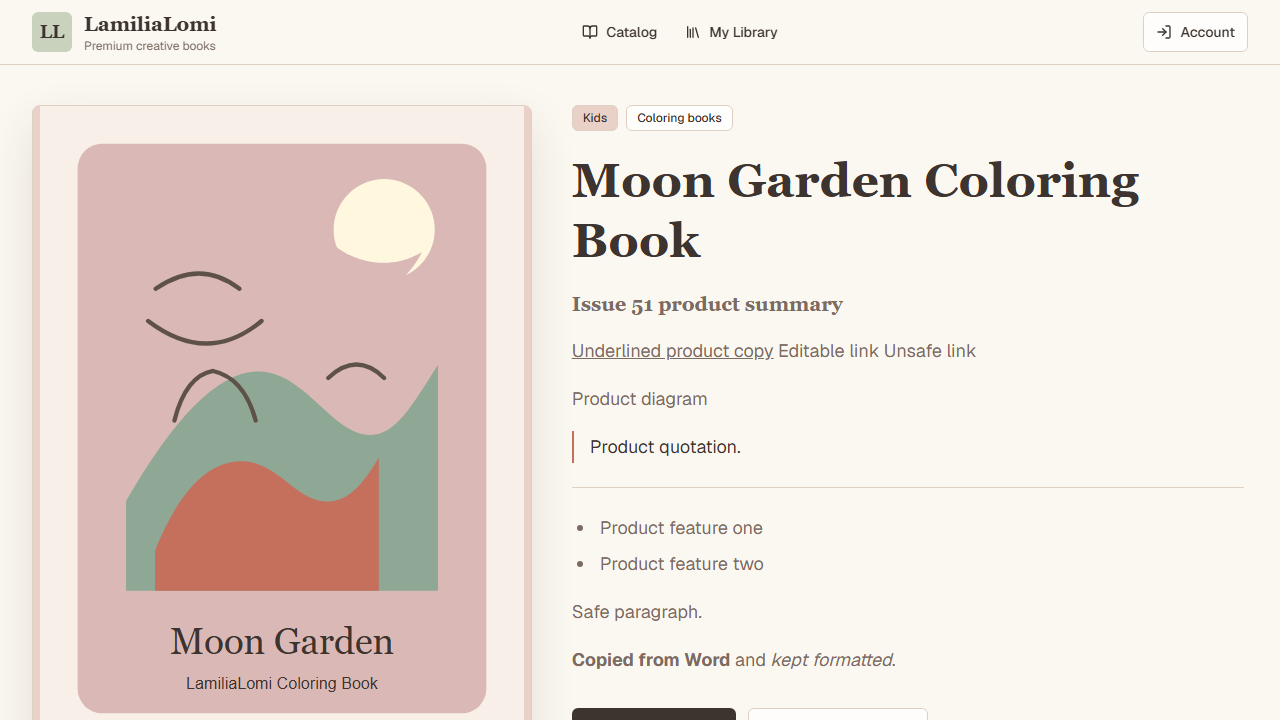
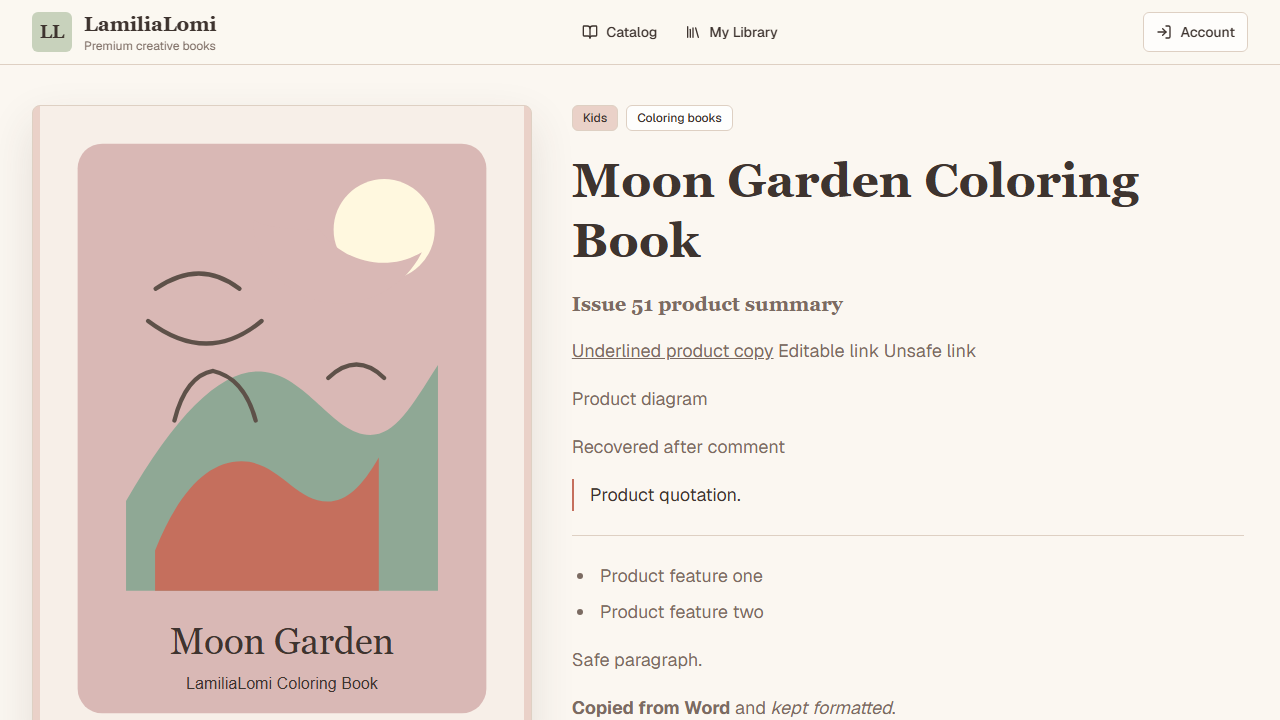
Fix Rich Text V2 conversion and storage compatibility

Changed region(s): [[0.4375, 0.6722, 0.6875, 0.9472], [0.4375, 0.9778, 0.7188, 1.0], [0.4375, 0.6111, 0.625, 0.6417]]

diff --git a/src/lib/rich-text-html.ts b/src/lib/rich-text-html.ts
@@ -61,16 +61,16 @@ export function importRichTextHtml(source: string): RichTextHtmlImport {
   };
 
   if (source.length > MAX_HTML_SOURCE_LENGTH) {
-    addWarning("invalid-markup", "HTML source is over 100,000 characters and cannot be converted.");
+    addWarning("invalid-markup", "Źródło HTML przekracza limit 100 000 znaków i nie można go przekonwertować.");
     return { document: { type: "doc", content: [] }, warnings: [...warningMap.values()], canConvert: false };
   }
 
   if (hasMalformedTagStructure(source)) {
-    addWarning("invalid-markup", "Some HTML tags are missing or out of order. Review the source before converting it.");
+    addWarning("invalid-markup", "Niektóre znaczniki HTML są brakujące lub w niewłaściwej kolejności. Sprawdź źródło przed konwersją.");
   }
 
   if (typeof DOMParser === "undefined") {
-    addWarning("invalid-markup", "HTML parsing is unavailable in this environment. The source has been kept unchanged.");
+    addWarning("invalid-markup", "Konwersja HTML jest niedostępna w tym środowisku. Źródło pozostaje bez zmian.");
     return { document: { type: "doc", content: [] }, warnings: [...warningMap.values()], canConvert: false };
   }
 
@@ -79,18 +79,28 @@ export function importRichTextHtml(source: string): RichTextHtmlImport {
     (tag, attribute) => {
       addWarning(
         "unsupported-attribute",
-        "The " + attribute + " attribute on <" + tag + "> will be removed.",
+        "Atrybut „" + attribute + "” w elemencie <" + tag + "> zostanie usunięty.",
       );
     },
-    () => addWarning("unsupported-element", "Style block content will be removed during conversion."),
+    () => addWarning("unsupported-element", "Treść bloku <style> zostanie usunięta podczas konwersji."),
+    () => addWarning("invalid-markup", "Nie można odczytać końca komentarza HTML. Dalsza część źródła nie zostanie przekonwertowana."),
   );
   const parsed = new DOMParser().parseFromString(parserSafeSource, "text/html");
   if (parsed.querySelector("parsererror")) {
-    addWarning("invalid-markup", "The HTML source could not be parsed. Review it before converting.");
+    addWarning("invalid-markup", "Nie udało się odczytać źródła HTML. Sprawdź je przed konwersją.");
+  }
+
+  const hasUnsupportedHeadContent = Array.from(parsed.head.childNodes).some((node) => {
+    if (node.nodeType === Node.COMMENT_NODE) return true;
+    if (node.nodeType === Node.TEXT_NODE) return Boolean((node.nodeValue ?? "").trim());
+    return node instanceof Element && node.tagName.toLowerCase() !== "style";
+  });
+  if (hasUnsupportedHeadContent) {
+    addWarning("unsupported-element", "Zawartość sekcji <head> nie jest obsługiwana i zostanie usunięta podczas konwersji.");
   }
 
   if (!isWithinHtmlLimits(parsed.body)) {
-    addWarning("invalid-markup", "The HTML source is too deeply nested or contains too many elements to convert safely.");
+    addWarning("invalid-markup", "Źródło HTML jest zbyt głęboko zagnieżdżone lub zawiera zbyt wiele elementów do bezpiecznej konwersji.");
     return { document: { type: "doc", content: [] }, warnings: [...warningMap.values()], canConvert: false };
   }
 
@@ -103,7 +113,7 @@ export function importRichTextHtml(source: string): RichTextHtmlImport {
       if (!allowed.has(attribute.name.toLowerCase())) {
         addWarning(
           "unsupported-attribute",
-          "The " + attribute.name.toLowerCase() + " attribute on <" + element.tagName.toLowerCase() + "> will be removed.",
+          "Atrybut „" + attribute.name.toLowerCase() + "” w elemencie <" + element.tagName.toLowerCase() + "> zostanie usunięty.",
         );
       }
     }
@@ -114,7 +124,7 @@ export function importRichTextHtml(source: string): RichTextHtmlImport {
     const allowedAttributes = tag === "a" ? new Set(["href"]) : new Set<string>();
     inspectAttributes(element, allowedAttributes);
     if (!INLINE_TAGS.has(tag) && !BLOCK_TAGS.has(tag) && !(isListItem && tag === "li")) {
-      addWarning("unsupported-element", "The <" + tag + "> element is not supported and will be simplified.");
+      addWarning("unsupported-element", "Element <" + tag + "> nie jest obsługiwany i zostanie uproszczony.");
     }
   };
 
@@ -128,7 +138,7 @@ export function importRichTextHtml(source: string): RichTextHtmlImport {
       }
 
       if (node.nodeType === Node.COMMENT_NODE) {
-        addWarning("unsupported-element", "HTML comments are not supported and will be removed.");
+        addWarning("unsupported-element", "Komentarze HTML nie są obsługiwane i zostaną usunięte.");
         continue;
       }
 
@@ -152,8 +162,8 @@ export function importRichTextHtml(source: string): RichTextHtmlImport {
         const rawHref = element.getAttribute("href");
         const safeHref = rawHref === null ? null : sanitizeRichTextHref(rawHref);
         if (safeHref) marks = addMark(inheritedMarks, { type: "link", attrs: { href: safeHref } });
-        else if (rawHref !== null) addWarning("unsafe-link", "An unsafe or invalid link address will be removed.");
-        else addWarning("unsafe-link", "A link without an href will be converted to plain text.");
+        else if (rawHref !== null) addWarning("unsafe-link", "Niebezpieczny lub nieprawidłowy adres linku zostanie usunięty.");
+        else addWarning("unsafe-link", "Link bez atrybutu href zostanie zamieniony na zwykły tekst.");
       }
 
       if (["img"].includes(tag)) {
@@ -195,7 +205,7 @@ export function importRichTextHtml(source: string): RichTextHtmlImport {
       }
 
       if (node.nodeType === Node.COMMENT_NODE) {
-        addWarning("unsupported-element", "HTML comments are not supported and will be removed.");
+        addWarning("unsupported-element", "Komentarze HTML nie są obsługiwane i zostaną usunięte.");
         continue;
       }
 
@@ -226,7 +236,7 @@ export function importRichTextHtml(source: string): RichTextHtmlImport {
           } else if (child.nodeType === Node.TEXT_NODE && !(child.nodeValue ?? "").trim()) {
             continue;
           } else {
-            addWarning("unsupported-element", "Content outside a <li> element in a list will be moved into a list item.");
+            addWarning("unsupported-element", "Treść poza elementem <li> zostanie przeniesiona do nowego elementu listy.");
             const itemContent = child instanceof Element
               ? blocksFromNodes([child])
               : [{ type: "paragraph", content: inlineFromNodes([child]) }];
@@ -260,7 +270,7 @@ export function importRichTextHtml(source: string): RichTextHtmlImport {
   const imported = blocksFromNodes(parsed.body.childNodes);
   const document = sanitizeRichTextDocument({ type: "doc", content: imported }) ?? { type: "doc", content: [] };
   if (JSON.stringify(imported) !== JSON.stringify(document.content)) {
-    addWarning("unsupported-element", "Some nested content cannot be represented and will be removed during conversion.");
+    addWarning("unsupported-element", "Niektórych zagnieżdżonych elementów nie można zachować i zostaną usunięte podczas konwersji.");
   }
   return { document, warnings: [...warningMap.values()], canConvert: true };
 }
@@ -269,6 +279,7 @@ function removeFetchableAttributes(
   source: string,
   onRemovedAttribute: (tag: string, attribute: string) => void,
   onRemovedStyleContent: () => void,
+  onMalformedComment: () => void,
 ): string {
   const lowerSource = source.toLowerCase();
   let result = "";
@@ -283,10 +294,14 @@ function removeFetchableAttributes(
 
     result += source.slice(cursor, tagStart);
     if (source.startsWith("<!--", tagStart)) {
-      const commentEnd = source.indexOf("-->", tagStart + 4);
-      const end = commentEnd < 0 ? source.length : commentEnd + 3;
-      result += source.slice(tagStart, end);
-      cursor = end;
+      const commentEnd = findHtmlCommentEnd(source, tagStart);
+      if (commentEnd < 0) {
+        onMalformedComment();
+        result += " ";
+        break;
+      }
+      result += source.slice(tagStart, commentEnd + 1);
+      cursor = commentEnd + 1;
       continue;
     }
 
@@ -409,6 +424,14 @@ function findHtmlTagEnd(source: string, start: number): number {
   return -1;
 }
 
+function findHtmlCommentEnd(source: string, start: number): number {
+  if (source[start + 4] === ">") return start + 4;
+  if (source[start + 4] === "-" && source[start + 5] === ">") return start + 5;
+
+  const commentEnd = source.indexOf("-->", start + 4);
+  return commentEnd < 0 ? -1 : commentEnd + 2;
+}
+
 function findRawTextClose(lowerSource: string, tagName: string, start: number): number {
   const closePrefix = "</" + tagName;
   let cursor = start;
@@ -489,9 +512,9 @@ function hasMalformedTagStructure(source: string): boolean {
     const start = source.indexOf("<", cursor);
     if (start < 0) break;
     if (source.slice(start, start + 4) === "<!--") {
-      const commentEnd = source.indexOf("-->", start + 4);
+      const commentEnd = findHtmlCommentEnd(source, start);
       if (commentEnd < 0) return true;
-      cursor = commentEnd + 3;
+      cursor = commentEnd + 1;
       continue;
     }
 

diff --git a/tests/e2e/issue-51-rich-text-v2.spec.ts b/tests/e2e/issue-51-rich-text-v2.spec.ts
@@ -72,19 +72,28 @@ test("Issue 51 rich text and HTML modes preserve supported content safely", asyn
     const productEditor = page.getByRole("textbox", { name: "Długi opis" });
     const productField = page.locator('#product-editor-form input[name="longDescription"]');
     const originalProductValue = await productField.inputValue();
-    const productHtml = '<style>p { color: red }</style><h2>Issue 51 product summary</h2><p><u>Underlined product copy</u> <a href="https://example.com/issue-51">Editable link</a> <a href="javascript:alert(51)">Unsafe link</a></p><img src="https://rich-text-resource.invalid/tracker.png" alt="Product diagram"><iframe src="https://rich-text-resource.invalid/frame"></iframe><blockquote><p>Product quotation.</p></blockquote><hr><ul><li><p>Product feature one</p></li><li><p>Product feature two</p></li></ul><script>window.__issue51Executed = true</script><p onclick="window.__issue51Executed = true">Safe paragraph.</p>';
+    const productHtml = `<!doctype html><html><head><title>Product source title</title><script>window.__issue51Executed = true</script><style>p { color: red }</style></head><body><h2>Issue 51 product summary</h2><p><u>Underlined product copy</u> <a href="https://example.com/issue-51">Editable link</a> <a href="javascript:alert(51)">Unsafe link</a></p><img src="https://rich-text-resource.invalid/tracker.png" alt="Product diagram"><!--><img src="https://rich-text-resource.invalid/malformed-comment.png" alt="Recovered after comment"><iframe src="https://rich-text-resource.invalid/frame"></iframe><blockquote><p>Product quotation.</p></blockquote><hr><ul><li><p>Product feature one</p></li><li><p>Product feature two</p></li></ul><p onclick="window.__issue51Executed = true">Safe paragraph.</p></body></html>`;
     await page.getByRole("button", { name: "HTML" }).click();
     await page.getByRole("textbox", { name: "Źródło HTML" }).fill(productHtml);
     await page.getByRole("button", { name: "Rich Text" }).click();
     await expect(page.getByText("Przed konwersją sprawdź obsługiwane formatowanie:")).toBeVisible();
-    await expect(page.getByText("Style block content will be removed during conversion.", { exact: true })).toBeVisible();
+    await expect(page.getByText("Zawartość sekcji <head> nie jest obsługiwana i zostanie usunięta podczas konwersji.", { exact: true })).toBeVisible();
+    await expect(page.getByText("Treść bloku <style> zostanie usunięta podczas konwersji.", { exact: true })).toBeVisible();
     await expect(page.getByRole("textbox", { name: "Źródło HTML" })).toHaveValue(productHtml);
     await expect(productField).toHaveValue(originalProductValue);
     expect(await page.evaluate(() => (window as Window & { __issue51Executed?: boolean }).__issue51Executed)).toBe(false);
-    await saveScreenshot(page, screenshotDirectory, `product-editor-html-warning-${testInfo.project.name}.png`, page.getByRole("textbox", { name: "Źródło HTML" }));
+    expect(attemptedHtmlResourceRequests).toEqual([]);
+    await saveScreenshot(
+      page,
+      screenshotDirectory,
+      `product-editor-html-warning-${testInfo.project.name}.png`,
+      page.getByRole("status").filter({ hasText: "Przed konwersją sprawdź obsługiwane formatowanie:" }),
+      true,
+    );
     await page.getByRole("button", { name: "Użyj obsługiwanej treści" }).click();
     expect(attemptedHtmlResourceRequests).toEqual([]);
     await expect(productEditor.locator("h2")).toHaveText("Issue 51 product summary");
+    await expect(productEditor).toContainText("Recovered after comment");
     await expect(productEditor.locator("u")).toHaveText("Underlined product copy");
     await expect(productEditor.locator("blockquote")).toContainText("Product quotation.");
     await expect(productEditor.locator("hr")).toHaveCount(1);
@@ -280,7 +289,7 @@ async function expectNoHorizontalOverflow(page: Page) {
   expect(dimensions.document).toBeLessThanOrEqual(dimensions.viewport + 1);
 }
 
-async function saveScreenshot(page: Page, directory: string, filename: string, target: Locator) {
+async function saveScreenshot(page: Page, directory: string, filename: string, target: Locator, captureTargetOnly = false) {
   await target.scrollIntoViewIfNeeded();
   await page.evaluate(() => document.fonts.ready.then(() => undefined));
   await page.evaluate(() => {
@@ -288,7 +297,13 @@ async function saveScreenshot(page: Page, directory: string, filename: string, t
   });
   const screenshotStyles = await page.addStyleTag({ content: "nextjs-portal, [data-testid='product-save-bar'] { display: none !important; }" });
   try {
-    await page.screenshot({ path: path.join(directory, filename), animations: "disabled" });
+    if (captureTargetOnly) {
+      const bounds = await target.boundingBox();
+      if (!bounds) throw new Error(`The screenshot target for ${filename} is not visible.`);
+      await page.screenshot({ path: path.join(directory, filename), animations: "disabled", clip: bounds });
+    } else {
+      await page.screenshot({ path: path.join(directory, filename), animations: "disabled" });
+    }
   } finally {
     await screenshotStyles.evaluate((element) => element.parentNode?.removeChild(element));
   }

diff --git a/src/lib/rich-text.tsx b/src/lib/rich-text.tsx
@@ -1,6 +1,7 @@
 import type { ReactNode } from "react";
 
 export const RICH_TEXT_FORMAT_PREFIX = "lamilia-rich-text:v1:";
+const RICH_TEXT_V2_EXTENSION_KEY = "richTextV2";
 
 export type RichTextMark =
   | { type: "bold" }
@@ -42,7 +43,11 @@ export function parseRichTextValue(value: string): ParsedRichText {
 
   try {
     const parsed: unknown = JSON.parse(value.slice(RICH_TEXT_FORMAT_PREFIX.length));
-    const document = sanitizeRichTextDocument(parsed);
+    const richTextV2Extension = isRecord(parsed) ? parsed[RICH_TEXT_V2_EXTENSION_KEY] : null;
+    const richTextV2Content = isRecord(richTextV2Extension) ? richTextV2Extension.content : null;
+    const document = Array.isArray(richTextV2Content)
+      ? sanitizeRichTextDocument({ type: "doc", content: richTextV2Content })
+      : sanitizeRichTextDocument(parsed);
     return document ? { kind: "rich", document } : { kind: "plain", text: value };
   } catch {
     return { kind: "plain", text: value };
@@ -51,7 +56,15 @@ export function parseRichTextValue(value: string): ParsedRichText {
 
 export function serializeRichTextDocument(document: unknown): string {
   const safeDocument = sanitizeRichTextDocument(document) ?? emptyRichTextDocument();
-  return `${RICH_TEXT_FORMAT_PREFIX}${JSON.stringify(safeDocument)}`;
+  const legacyReadableDocument = documentForLegacyReaders(safeDocument);
+  const serializedDocument = hasRichTextV2Features(safeDocument)
+    ? {
+        ...legacyReadableDocument,
+        // Older v1 readers ignore this field and can still display the compatible content above.
+        [RICH_TEXT_V2_EXTENSION_KEY]: { content: safeDocument.content },
+      }
+    : legacyReadableDocument;
+  return `${RICH_TEXT_FORMAT_PREFIX}${JSON.stringify(serializedDocument)}`;
 }
 
 export function sanitizeRichTextValue(value: string): string {
@@ -176,6 +189,47 @@ export function sanitizeRichTextDocument(value: unknown): RichTextDocument | nul
     : [];
 
   return { type: "doc", content };
+}
+
+function documentForLegacyReaders(document: RichTextDocument): RichTextDocument {
+  return {
+    type: "doc",
+    content: document.content.flatMap(toLegacyReadableBlock),
+  };
+}
+
+function toLegacyReadableBlock(node: RichTextNode): RichTextNode[] {
+  if (node.type === "blockquote") {
+    return (node.content ?? []).flatMap(toLegacyReadableBlock);
+  }
+
+  if (node.type === "horizontalRule") {
+    // The old schema can retain an empty paragraph where the visual separator appeared.
+    return [{ type: "paragraph", content: [] }];
+  }
+
+  if (node.type === "bulletList" || node.type === "orderedList") {
+    const content = (node.content ?? []).flatMap((item) => {
+      if (item.type !== "listItem") return [];
+      const itemContent = (item.content ?? []).flatMap(toLegacyReadableBlock).filter((child) =>
+        ["paragraph", "heading", "bulletList", "orderedList"].includes(child.type),
+      );
+      return itemContent.length ? [{ type: "listItem", content: itemContent }] : [];
+    });
+    return [{ type: node.type, content }];
+  }
+
+  return [node];
+}
+
+function hasRichTextV2Features(document: RichTextDocument): boolean {
+  const hasFeature = (node: RichTextNode): boolean =>
+    node.type === "blockquote" ||
+    node.type === "horizontalRule" ||
+    node.marks?.some((mark) => mark.type === "underline") === true ||
+    node.content?.some(hasFeature) === true;
+
+  return document.content.some(hasFeature);
 }
 
 export function sanitizeRichTextHref(value: unknown): string | null {

diff --git a/src/lib/rich-text.test.tsx b/src/lib/rich-text.test.tsx
@@ -76,7 +76,7 @@ describe("rich text serialization and rendering", () => {
     expect(parsed).toMatchObject({ kind: "rich" });
   });
 
-  it("preserves underline, blockquotes, and horizontal rules in the v1 document", () => {
+  it("keeps new formatting readable to older v1 readers and restores it for current readers", () => {
     const value = serializeRichTextDocument({
       type: "doc",
       content: [
@@ -85,13 +85,33 @@ describe("rich text serialization and rendering", () => {
         { type: "horizontalRule" },
       ],
     });
+    const stored = JSON.parse(value.slice(RICH_TEXT_FORMAT_PREFIX.length)) as {
+      content: Array<{ type: string; content?: Array<{ type: string; text?: string; content?: Array<{ type: string; text?: string }> }> }>;
+      richTextV2: { content: unknown[] };
+    };
+    const legacyValue = `${RICH_TEXT_FORMAT_PREFIX}${JSON.stringify({ type: "doc", content: stored.content })}`;
     const rendered = renderToStaticMarkup(<RichTextContent value={value} />);
+    const legacyRendered = renderToStaticMarkup(<RichTextContent value={legacyValue} />);
 
-    expect(parseRichTextValue(value)).toMatchObject({ kind: "rich" });
+    expect(stored.content.map((node) => node.type)).toEqual(["paragraph", "paragraph", "paragraph"]);
+    expect(stored.content.flatMap((node) => node.content ?? []).map((node) => node.text).filter(Boolean)).toContain("Quoted");
+    expect(stored.richTextV2.content).toEqual([
+      { type: "paragraph", content: [{ type: "text", text: "Underlined", marks: [{ type: "underline" }] }] },
+      { type: "blockquote", content: [{ type: "paragraph", content: [{ type: "text", text: "Quoted" }] }] },
+      { type: "horizontalRule" },
+    ]);
+    expect(parseRichTextValue(value)).toMatchObject({
+      kind: "rich",
+      document: { content: [{ type: "paragraph" }, { type: "blockquote" }, { type: "horizontalRule" }] },
+    });
     expect(rendered).toContain("<u>Underlined</u>");
     expect(rendered).toContain("<blockquote");
     expect(rendered).toContain("Quoted");
     expect(rendered).toContain("<hr");
+    expect(legacyRendered).toContain("Underlined");
+    expect(legacyRendered).toContain("Quoted");
+    expect(legacyRendered).not.toContain("<blockquote");
+    expect(legacyRendered).not.toContain("<hr");
   });
 
   it("keeps legacy plain text readable and displays HTML-looking text as text", () => {

diff --git a/src/lib/rich-text-html.test.ts b/src/lib/rich-text-html.test.ts
@@ -78,6 +78,33 @@ describe("rich text HTML import and export", () => {
     expect(imported.warnings.map((warning) => warning.code)).toContain("unsupported-element");
   });
 
+  it("warns before dropping unsupported content from a full document head", () => {
+    const imported = importRichTextHtml(
+      "<!doctype html><html><head><title>Keep this title</title><script>discardThisScript()</script></head><body><p>Keep this body</p></body></html>",
+    );
+
+    expect(imported.canConvert).toBe(true);
+    expect(richTextDocumentToHtml(imported.document)).toBe("<p>Keep this body</p>");
+    expect(imported.warnings).toContainEqual({
+      code: "unsupported-element",
+      message: "Zawartość sekcji <head> nie jest obsługiwana i zostanie usunięta podczas konwersji.",
+    });
+  });
+
+  it("strips resource attributes after an abruptly closed HTML comment", () => {
+    const imported = importRichTextHtml(
+      '<!--><img src="https://rich-text-resource.invalid/malformed-comment.png" alt="Recovered image"><p>Keep this paragraph</p>',
+    );
+
+    expect(imported.canConvert).toBe(true);
+    expect(imported.warnings).toContainEqual({
+      code: "unsupported-attribute",
+      message: "Atrybut „src” w elemencie <img> zostanie usunięty.",
+    });
+    expect(richTextDocumentToHtml(imported.document)).toBe("<p>Recovered image</p><p>Keep this paragraph</p>");
+    expect(richTextDocumentToHtml(imported.document)).not.toContain("rich-text-resource.invalid");
+  });
+
   it("escapes legacy text when exporting it to HTML", () => {
     const html = richTextDocumentToHtml("Legacy <script>alert(1)</script> & text");
 
